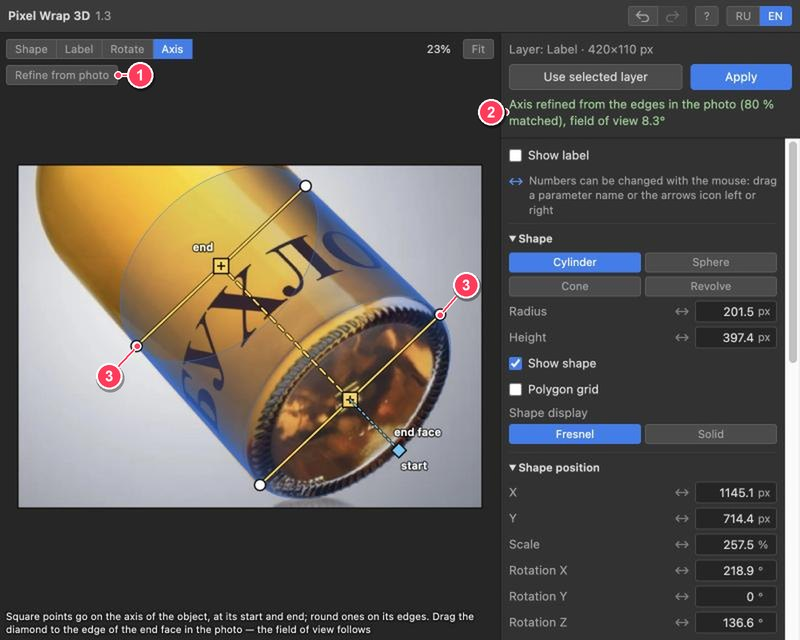
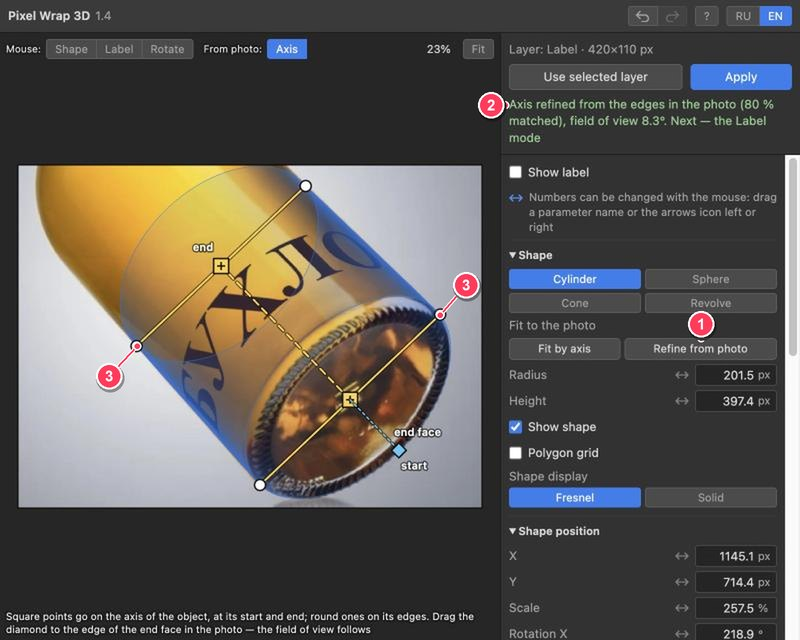
docs: Pixel Wrap 3D 1.4.1 — справка про подписанные режимы и кнопки подгонки, новые снимки

diff --git a/README.md b/README.md
@@ -27,7 +27,7 @@ A Photoshop plugin that wraps a label or a logo around a 3D shape and puts the r
 - **A contour editor.** Half of the profile over a snapshot of your document, shown the way the camera sees it, rotations and perspective included, so you can trace a bottle turned towards the viewer right over the photo. **Trace from photo** does it for you: it finds the edges of the object along the axis and builds the contour, which you can then adjust. Add, move and delete points, switch each one between sharp and smooth, move and rotate the axis. Contours are saved as presets.
 - **Placement on the shape.** Position along the height and around the shape, rotation of the label itself on the surface to lay it sideways or turn it upside down, scale, wrap angle. The part of the label that goes behind the shape is hidden, with a switch to show it.
 - **Matching the photo.** The document shows through the viewport. Move and scale the shape, rotate it around the X, Y and Z axes of the scene, a full circle on every axis; with the mouse it also turns around its own axes, and its X, Y and Z axes show at its centre while it turns; choose an orthographic or a perspective camera and its field of view. Every parameter has a number field, and every number can be dragged with the mouse.
-- **Fit by the axis.** In the **Axis** mode put the two axis points on the object, at its start and its end, then set the width at each end with the side points. The plugin works out the position, scale, rotations and length of the shape from them, perspective included. Drag the diamond to the edge of the end face in the photo and the field of view is worked out too; set it by hand, and the shape re-fits to the same points. **Refine from photo** finishes a roughly placed axis by itself: it finds the edges of the object next to the shape and fits the axis, the width and, when it finds the edge of the bottom, the field of view to them. Works for a cylinder and a cone, best when the object stands out from the background.
+- **Fit by the axis.** Click **Fit by axis** in the **Shape** group (or **Axis** at the top, under **From photo**), put the two axis points on the object, at its start and its end, then set the width at each end with the side points. The plugin works out the position, scale, rotations and length of the shape from them, perspective included. Drag the diamond to the edge of the end face in the photo and the field of view is worked out too; set it by hand, and the shape re-fits to the same points. **Refine from photo** finishes a roughly placed axis by itself: it finds the edges of the object next to the shape and fits the axis, the width and, when it finds the edge of the bottom, the field of view to them. Works for a cylinder, a cone and a body of revolution (for the latter it pulls the axis and the points of the contour you set to the edges), best when the object stands out from the background.
 - **Undo and redo inside the panel.** Cmd/Ctrl+Z steps back, Shift+Cmd+Z or Ctrl+Y steps forward; the two arrows in the panel header do the same. One step is one finished action: a drag, a number, a moved point. Apply is a step in Photoshop's own history and is undone there.
 - **Shape only.** Untick **Show label** at the top of the panel to hide the label while you match the shape to the photo. Apply still renders it.
 - **Polygon grid.** A switch draws a grid on the shape, so its rotation and perspective are easy to read. It works with the shape shown or hidden and never gets into the result.
@@ -100,7 +100,7 @@ Adobe and Photoshop are trademarks of Adobe Inc. Pixel Wrap 3D is an independent
 
 **[Скачать последнюю версию](https://github.com/Toys-D/PixelWrap3D/releases/latest)** · Photoshop 2025 (26.0) и новее · бесплатно.
 
-Источник — выделенный слой с прозрачностью: текст, логотип, смарт-объект. Четыре формы: цилиндр, сфера, усечённый конус, тело вращения. Редактор контура поверх снимка документа показывает контур таким, каким его видит камера, — с вращениями и перспективой, так что бутылку, повёрнутую к зрителю, можно обвести прямо по фото, а кнопка «Обвести по фото» делает это сама — находит края предмета вдоль оси и строит по ним контур, который потом можно поправить; точки можно добавлять, двигать, удалять и делать острыми или сглаженными, ось — сдвигать и вращать; контуры сохраняются как пресеты. Надпись двигается по высоте и вокруг формы, поворачивается на самой поверхности — хоть набок, хоть вверх ногами, меняет масштаб и угол охвата; часть, уходящая назад, скрывается. Форму можно двигать, масштабировать и вращать вокруг осей сцены X, Y и Z на полный оборот, а мышью — и вокруг её собственных осей; пока форму вращают, в её центре видны оси X, Y и Z, камера ортогональная или перспективная с углом обзора; у каждого параметра есть числовое поле, и каждое число можно тянуть мышью. В режиме «Ось» форму можно подогнать по фото: поставьте две точки оси — в начале предмета и в его конце, затем боковыми точками задайте ширину на каждом конце, и плагин сам посчитает положение, масштаб, вращения и длину формы вместе с перспективой; угол обзора подбирается сам, если потянуть ромб к краю торца на фото, или задаётся вручную — форма пересчитывается по тем же точкам. Кнопка «Уточнить по фото» доводит примерно выставленную ось сама: находит края предмета рядом с формой и ставит по ним ось, ширину, а если найдёт край донышка — и угол обзора; работает для цилиндра и конуса, лучше всего — когда предмет заметно отличается от фона. Действия в панели отменяются и возвращаются: Cmd/Ctrl+Z и Shift+Cmd+Z (или Ctrl+Y), те же две стрелки есть в шапке панели; «Применить» — это шаг в истории самого Photoshop, он отменяется там. Флажок «Показывать надпись» вверху панели убирает надпись из окна просмотра, пока форму совмещают с фото; в результат она попадает всё равно. Флажок «Сетка полигонов» рисует на форме сетку — по ней хорошо видны поворот и перспектива; в результат сетка не попадает. По умолчанию без затенения, цвета надписи не меняются; мягкое затенение к краям включается отдельно. Перед вставкой «Применить» спрашивает, поставить ли новому слою режим «Умножение» (тёмная надпись берёт свет и тень фото) и размыть ли надпись на несколько пикселей под резкость фотографии; по умолчанию оба пункта выключены, выбор запоминается. Результат рендерится в разрешении документа на прозрачном фоне и вставляется новым слоем точно на своё место одной записью в истории. При следующем открытии панели сцена последнего применения восстанавливается.
+Источник — выделенный слой с прозрачностью: текст, логотип, смарт-объект. Четыре формы: цилиндр, сфера, усечённый конус, тело вращения. Редактор контура поверх снимка документа показывает контур таким, каким его видит камера, — с вращениями и перспективой, так что бутылку, повёрнутую к зрителю, можно обвести прямо по фото, а кнопка «Обвести по фото» делает это сама — находит края предмета вдоль оси и строит по ним контур, который потом можно поправить; точки можно добавлять, двигать, удалять и делать острыми или сглаженными, ось — сдвигать и вращать; контуры сохраняются как пресеты. Надпись двигается по высоте и вокруг формы, поворачивается на самой поверхности — хоть набок, хоть вверх ногами, меняет масштаб и угол охвата; часть, уходящая назад, скрывается. Форму можно двигать, масштабировать и вращать вокруг осей сцены X, Y и Z на полный оборот, а мышью — и вокруг её собственных осей; пока форму вращают, в её центре видны оси X, Y и Z, камера ортогональная или перспективная с углом обзора; у каждого параметра есть числовое поле, и каждое число можно тянуть мышью. В режиме «Ось» — кнопка «Поставить по оси» в группе «Форма» или «Ось» вверху, в группе «По фото», — форму можно подогнать по фото: поставьте две точки оси — в начале предмета и в его конце, затем боковыми точками задайте ширину на каждом конце, и плагин сам посчитает положение, масштаб, вращения и длину формы вместе с перспективой; угол обзора подбирается сам, если потянуть ромб к краю торца на фото, или задаётся вручную — форма пересчитывается по тем же точкам. Кнопка «Уточнить по фото» доводит примерно выставленную ось сама: находит края предмета рядом с формой и ставит по ним ось, ширину, а если найдёт край донышка — и угол обзора; работает для цилиндра, конуса и тела вращения (у него подтягивает к краям ось и точки поставленного контура), лучше всего — когда предмет заметно отличается от фона. Действия в панели отменяются и возвращаются: Cmd/Ctrl+Z и Shift+Cmd+Z (или Ctrl+Y), те же две стрелки есть в шапке панели; «Применить» — это шаг в истории самого Photoshop, он отменяется там. Флажок «Показывать надпись» вверху панели убирает надпись из окна просмотра, пока форму совмещают с фото; в результат она попадает всё равно. Флажок «Сетка полигонов» рисует на форме сетку — по ней хорошо видны поворот и перспектива; в результат сетка не попадает. По умолчанию без затенения, цвета надписи не меняются; мягкое затенение к краям включается отдельно. Перед вставкой «Применить» спрашивает, поставить ли новому слою режим «Умножение» (тёмная надпись берёт свет и тень фото) и размыть ли надпись на несколько пикселей под резкость фотографии; по умолчанию оба пункта выключены, выбор запоминается. Результат рендерится в разрешении документа на прозрачном фоне и вставляется новым слоем точно на своё место одной записью в истории. При следующем открытии панели сцена последнего применения восстанавливается.
 
 **Языки:** русский и английский. Панель берёт язык Photoshop, переключить можно кнопками **RU / EN** в её шапке.
 

diff --git a/docs/HELP.md b/docs/HELP.md
@@ -22,8 +22,8 @@ _The plugin panel. The numbers are explained in the list below the picture._
 
 1. **Use selected layer** takes the layer selected in Photoshop into the plugin.
 2. **Apply** puts the finished label into the document.
-3. The status line. The plugin tells you here what it did. Green text means it worked, red means something is wrong — and says what.
-4. Mouse modes. They decide what the mouse does in the view: move the shape, move the label, turn the shape and so on.
+3. The status line. The plugin tells you here what it did and what to do next. Green text means it worked, red means something is wrong — and says what.
+4. Modes — two labelled groups of buttons. **Mouse:** — what the mouse does in the view: move the shape, move the label or turn the shape. **From photo:** — fitting the shape to the photo: **Axis** and, for a body of revolution, **Contour**.
 5. The view: your photo with the shape and the label on it. The mouse wheel zooms in and out, **Fit** shows the whole document.
 6. Settings: numbers, check boxes and buttons. The column scrolls, and each group folds with the triangle next to its name.
 7. The arrows undo and redo.
@@ -35,12 +35,12 @@ _The plugin panel. The numbers are explained in the list below the picture._
 
 1. In Photoshop, select the layer with your text or logo and click **Use selected layer**.
 2. Pick a shape like your object: a can — **Cylinder**, a ball — **Sphere**, a cup — **Cone**, a bottle with shoulders and a neck — **Revolve**.
-3. In the **Axis** mode put the shape on the object and click **Refine from photo**.
+3. In the **Shape** group click **Fit by axis**, put the markers on the object and click **Refine from photo**.
 4. If you need to, turn the shape in the **Rotate** mode.
 5. In the **Label** mode move the label to where it belongs.
 6. Click **Apply**, and a new layer with the label appears in the document.
 
-Each step is explained below, with pictures. Next time you open the panel, it remembers how things were the last time you clicked **Apply**.
+The plugin itself tells you what to do next in the status line after each step. Each step is explained below, with pictures. Next time you open the panel, it remembers how things were the last time you clicked **Apply**.
 
 ## Step 1. Take the label
 
@@ -64,10 +64,11 @@ The plugin remembers how the document looks — that is the backdrop in the view
 _The **Shape** group. The numbers are explained below._
 
 - **(1) Which shape** — **Cylinder** — like a can or a straight bottle. **Sphere** — like a ball or a Christmas bauble. **Cone** — like a cup: narrower at one end, wider at the other. **Revolve** — any round shape whose contour you draw yourself: a bottle with shoulders, a vase, a flask.
-- **(2) Size** — **Radius** and **Height** are how thick and how long the shape is; a cone has **Top radius** and **Bottom radius**. Usually the **Axis** mode sets them, so you don't need to touch them.
-- (3) **Show shape** — Show or hide the shape. The label is visible either way.
-- (4) **Polygon grid** — A grid on the shape, like on a globe. It shows clearly how the shape is turned. It works with a hidden shape too and never gets into the result.
-- (5) **Shape display** — **Fresnel** — a see-through shape with bright edges. **Solid** — a solid one; how solid is set with the **Opacity** slider.
+- (2) **Fit to the photo** — The buttons that put the shape on the object: **Fit by axis** turns on the **Axis** mode, **Refine from photo** pulls the shape to the edges in the photo, and a body of revolution also has **Trace from photo**. Each one turns on the mode it needs. A sphere has none of these: it has no axis.
+- **(3) Size** — **Radius** and **Height** are how thick and how long the shape is; a cone has **Top radius** and **Bottom radius**. Usually the **Axis** mode sets them, so you don't need to touch them.
+- (4) **Show shape** — Show or hide the shape. The label is visible either way.
+- (5) **Polygon grid** — A grid on the shape, like on a globe. It shows clearly how the shape is turned. It works with a hidden shape too and never gets into the result.
+- (6) **Shape display** — **Fresnel** — a see-through shape with bright edges. **Solid** — a solid one; how solid is set with the **Opacity** slider.
 
 ## Step 3. Put the shape on the object: the Axis mode
 
@@ -77,7 +78,7 @@ This is the most important step. You show the plugin where the object's axis is 
 
 _The markers are placed roughly — that is fine to start with. (1) — the ends of the axis, (2) — the edges, (3) — the diamond._
 
-1. Click the **Axis** mode. Markers appear on the shape.
+1. Click **Fit by axis** in the **Shape** group — or **Axis** at the top, in the **From photo** group. Markers appear on the shape.
 2. The square markers (1) are the ends of the axis. Put one at the start of the object (the bottom of a bottle) and the other at its end.
 3. The round markers (2) are the edges. Move them to the edges of the object at each end.
 4. The diamond (3) is the edge of the end face — the bottom or the lid — that you can see in the photo. Drag it to that edge in the photo, and **Field of view** is set by itself.
@@ -86,13 +87,13 @@ _The markers are placed roughly — that is fine to start with. (1) — the ends
 
 _After **Refine from photo** (1) the markers sit exactly on the edges of the bottle (3), and the status line (2) tells you what happened._
 
-You don't have to place the markers exactly. Place them roughly and click **Refine from photo** (1): the plugin finds the edges of the object in the photo and moves the markers. If it finds the edge of the bottom, it sets **Field of view** too. The bottom may face you or face away, and its edge is in the same place in the photo either way; the plugin tells which by whether the far half of its rim shows. Don't like the result? Press Cmd+Z.
+You don't have to place the markers exactly. Place them roughly and click **Refine from photo** (1) in the **Shape** group: the plugin finds the edges of the object in the photo and moves the markers. If it finds the edge of the bottom, it sets **Field of view** too. The bottom may face you or face away, and its edge is in the same place in the photo either way; the plugin tells which by whether the far half of its rim shows. Don't like the result? Press Cmd+Z.
 
 It works best when the object stands out from the background. Clear glass and dark on dark are found less reliably. If no edges are found, or they are too far away, the axis stays as it was.
 
 A few more rules. The shape turns its front to you: **Rotation Y** becomes 0. You can change **Field of view** and the radius by hand too — the markers stay where they are. If the lines between the markers turn red, no shape can be built from those points, and it stays as it was. If the diamond turns red, the field of view could not be found — for example, the bottom is seen almost edge-on.
 
-This mode does not work for a sphere — a ball has no ends — nor for a contour that closes to a point at an end. **Refine from photo** does not work for a body of revolution: set the axis with a cylinder over the body first, then switch the shape. An orthographic camera has no diamond: there is no perspective there, and the length of the shape is kept.
+This mode does not work for a sphere — a ball has no ends — nor for a contour that closes to a point at an end. For a body of revolution **Refine from photo** looks for edges next to the contour you already have: it pulls the axis and the contour points to them and leaves the width at the ends and the field of view alone — the markers set those. An orthographic camera has no diamond: there is no perspective there, and the length of the shape is kept.
 
 ## Step 4. Turn the shape: the Rotate mode
 
@@ -152,7 +153,7 @@ Many bottles have shoulders and a neck, and a cylinder won't fit them. For such 
 
 1. First pick the cylinder, set it along the body of the bottle in the **Axis** mode and click **Refine from photo**.
 2. Switch the shape to **Revolve** — the **Contour** mode opens. The **Edit contour** button opens it too.
-3. Click **Trace from photo**, and the plugin traces the bottle for you.
+3. Click **Trace from photo** in the **Shape** group, and the plugin traces the bottle for you.
 4. If something doesn't match, fix the points with the mouse.
 
 ![Right after switching, the contour doesn't match the bottle yet. The numbers are explained below.](images/en/lathe-start.jpg)
@@ -164,14 +165,16 @@ _Right after switching, the contour doesn't match the bottle yet. The numbers ar
 - **(3) The circle at the end of the axis** — Turns the shape around the Z axis.
 - **(4) The thin ellipse** — The rim at the end of the shape. It shows how the shape is turned towards you.
 - (5) **Sharp**, **Smooth**, **Delete point** — What to do with the selected point. The Delete key removes it too.
-- (6) **Trace from photo** — Trace the bottle from the photo.
+- (6) **Trace from photo** — Trace the bottle from the photo. The button is in the **Shape** group, next to **Refine from photo**.
 - (7) **Contour presets** — Keep a good contour: type a name and click **Save contour**.
 
 ![After Trace from photo (1) the contour runs along the edges of the bottle (3), and the status line (2) tells you how many points it made.](images/en/lathe-traced.jpg)
 
 _After **Trace from photo** (1) the contour runs along the edges of the bottle (3), and the status line (2) tells you how many points it made._
 
-**Trace from photo** goes along the axis from the bottom up and looks for the edges of the bottle on both sides, tilt and perspective included. The axis and the bottom of the shape stay as they were. It works best when the bottle stands out from the background; clear glass and a cork are found less reliably. If no edges are found, the contour stays as it was. Undo with Cmd+Z.
+**Trace from photo** goes along the axis from the bottom up and looks for the edges of the bottle on both sides, tilt and perspective included, as far out as the widest part of the contour you already have. The axis and the bottom of the shape stay as they were. It works best when the bottle stands out from the background; clear glass and a cork are found less reliably. If no edges are found, or only near the bottom, the contour stays as it was. Undo with Cmd+Z.
+
+If the body is nothing like a cylinder — a bulb, a vase — put the axis markers on the body of revolution straight away, draw the contour roughly and click **Refine from photo** in the **Shape** group: the plugin pulls both the axis and the contour points to the edges in the photo. You keep as many points as you had.
 
 Why does a point sometimes move somewhere other than the cursor? The shoulders of a tilted bottle look different in the photo from the profile in section, and the plugin moves the point so that the contour line is what passes under the cursor. A faded point is hidden: with a strong tilt a steep shoulder at that height faces you and makes no edge. Such a point moves the way it would on a cylinder. Parts of the shape covered by other parts (a neck behind a shoulder) are still drawn.
 
@@ -181,7 +184,7 @@ _Done: the label on the shoulder of the bottle bends with it._
 
 ## Mouse modes in short
 
-The buttons above the view decide what the mouse does.
+The buttons above the view come in two labelled groups. **Mouse:** — what the mouse does: **Shape**, **Label**, **Rotate**. **From photo:** — fitting the shape to the photo: **Axis** and **Contour**.
 
 - **Shape** — Drag to move the shape around the document. Alt + wheel — the size of the shape.
 - **Label** — Drag left-right — the label moves around the shape (**Rotation Y**), up-down — along it. Alt + wheel — the size of the label.
